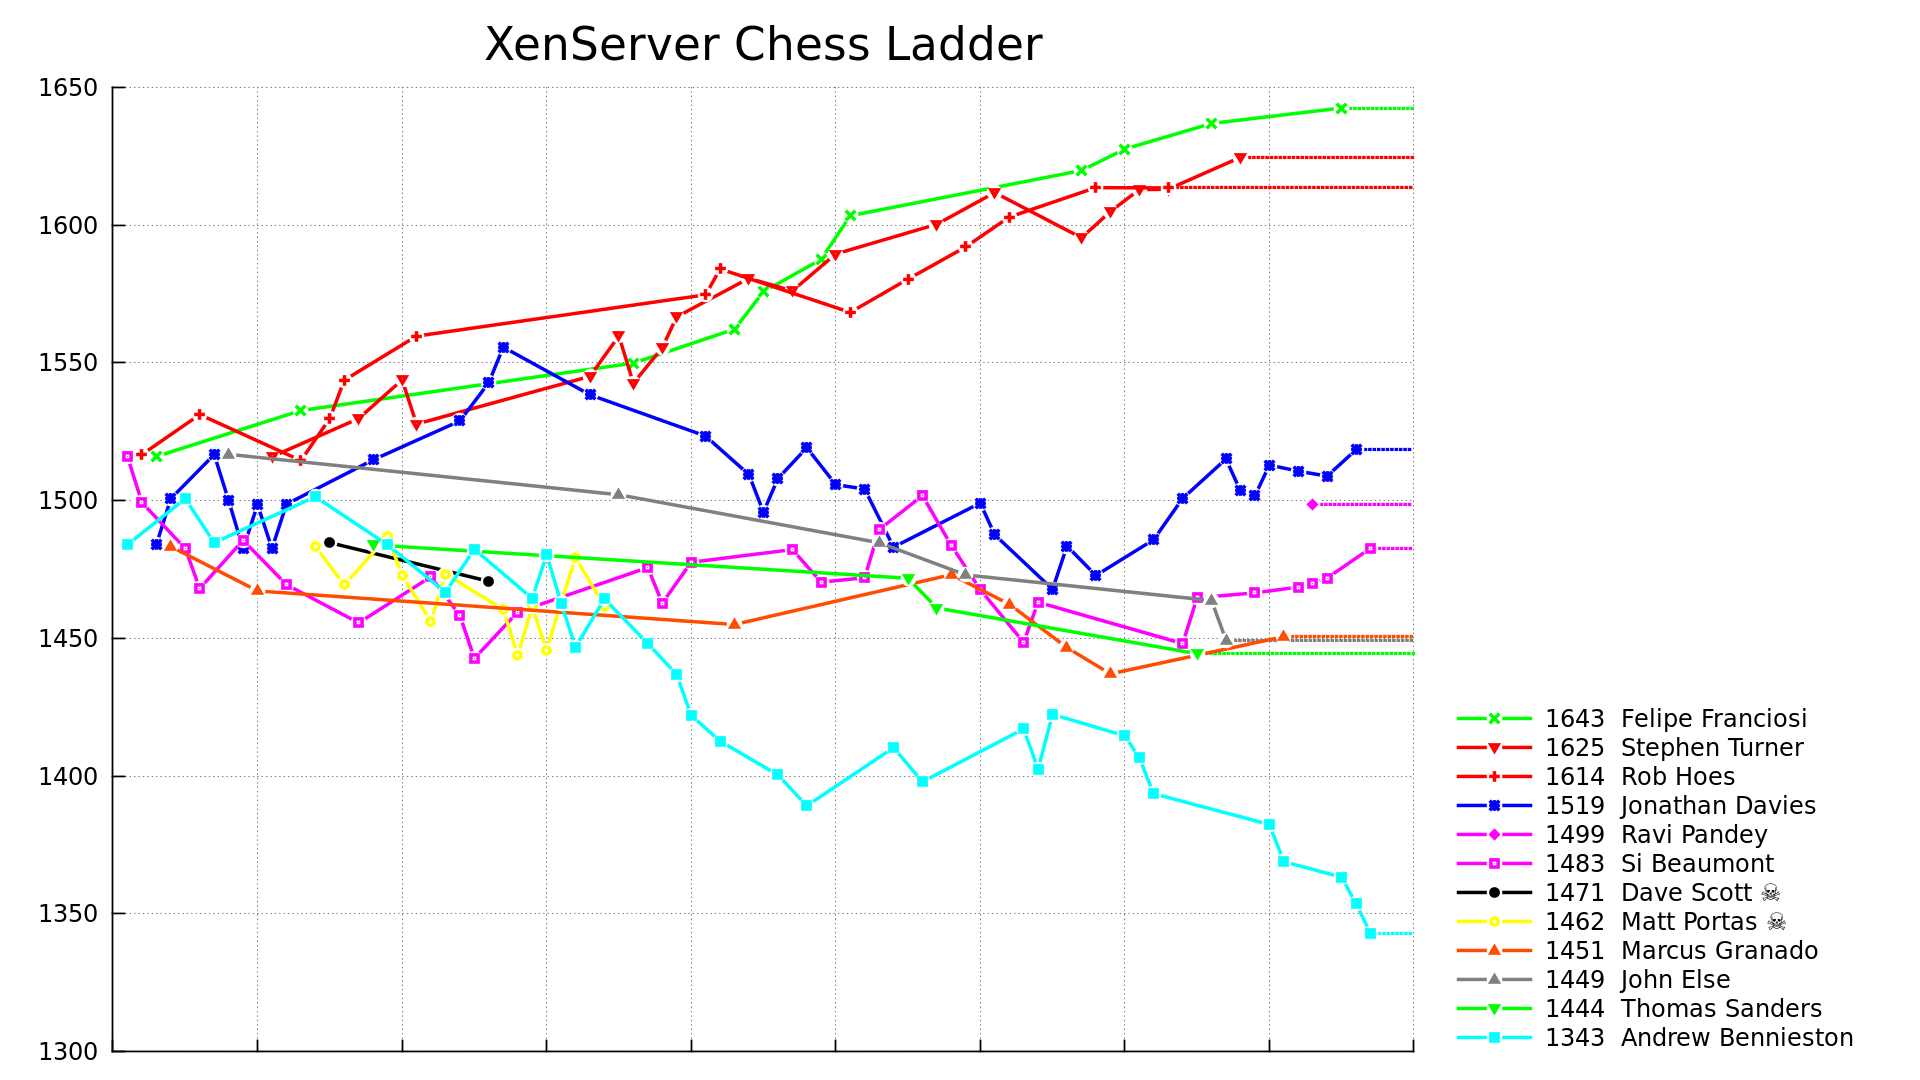
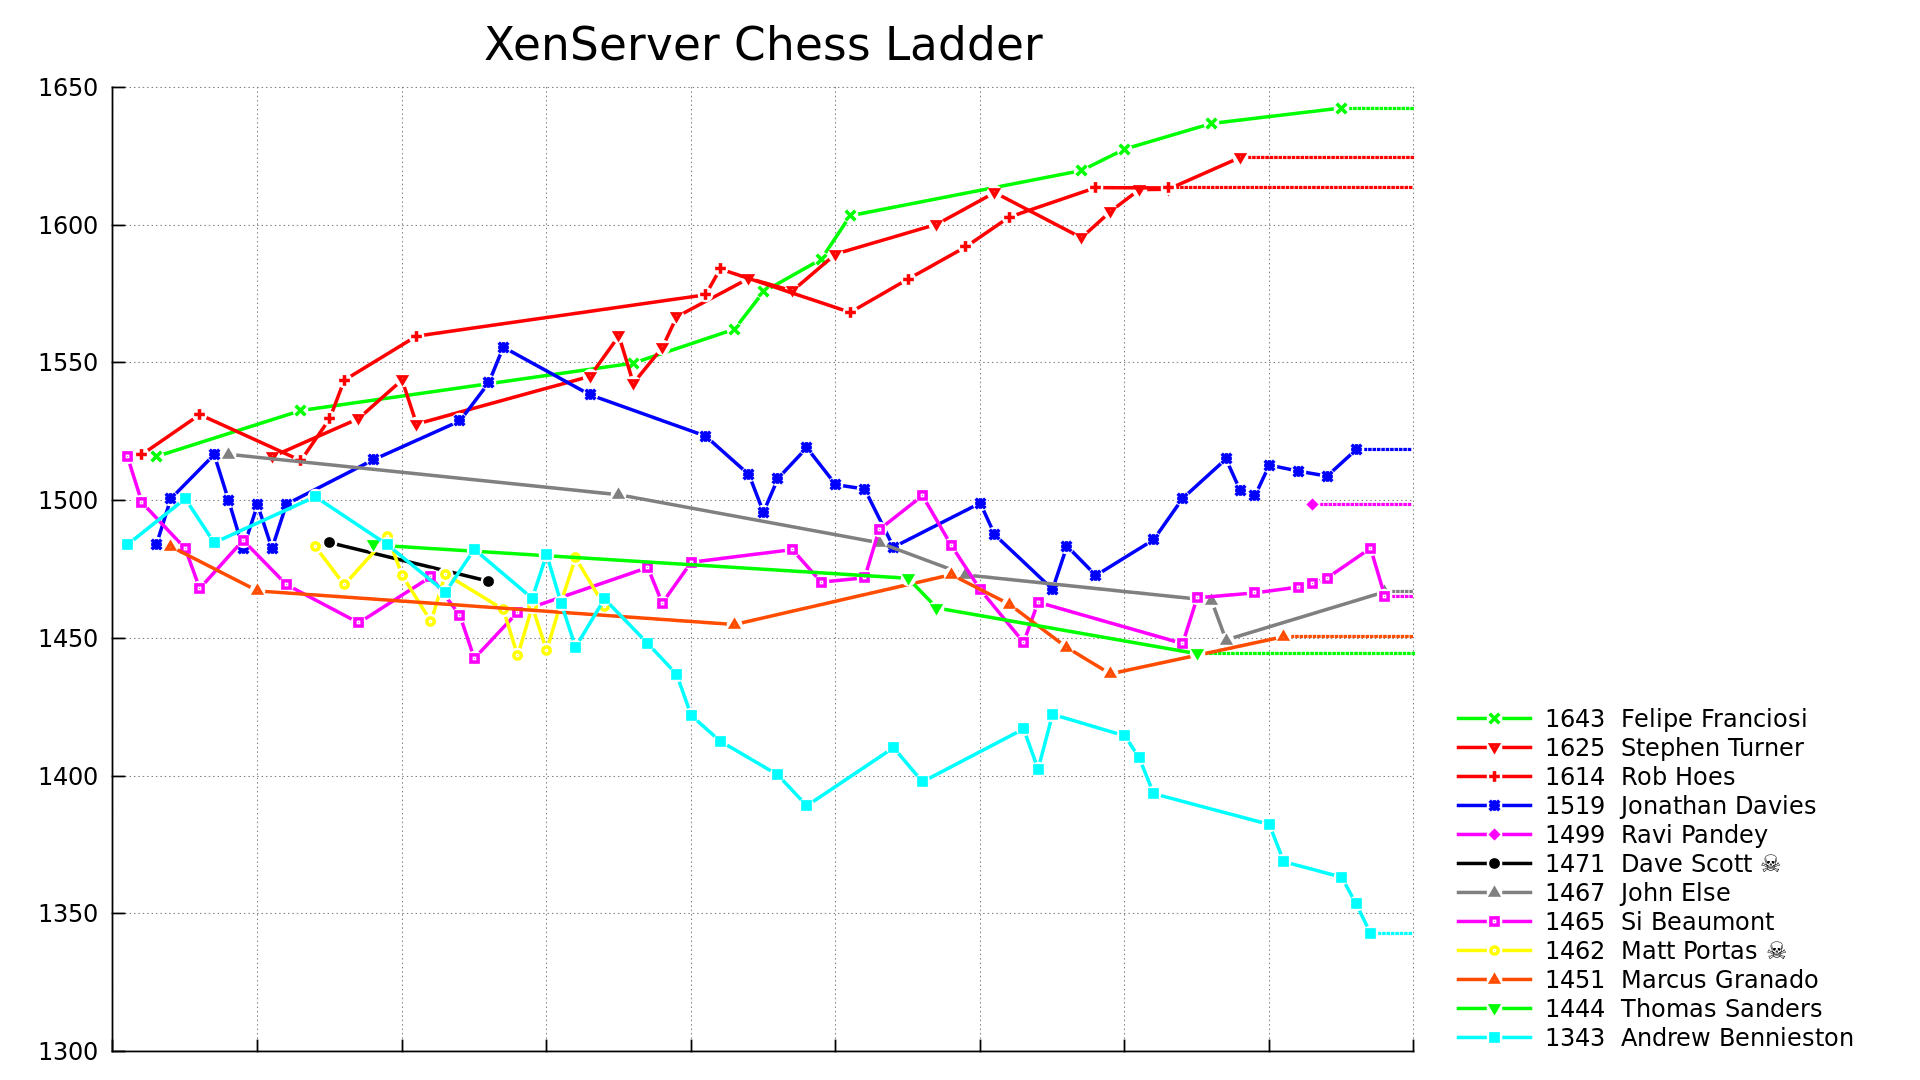
Travis build 173 pushed to gh-pages

Changed region(s): [[0.75, 0.7944, 0.9375, 0.9167], [0.6562, 0.55, 0.7188, 0.5806]]

diff --git a/index.md b/index.md
@@ -9,11 +9,11 @@ layout: default
      4.  Jonathan Davies                    1519  (19 / 35)
      5.  Bill Briscombe                     1500  (0 / 0)
      6.  Ravi Pandey                        1499  (0.5 / 1)
-     7.  Si Beaumont                        1483  (14 / 30)
-     8.  Dave Scott                      ☠  1471  (0 / 2)
-     9.  Matt Portas                     ☠  1462  (5 / 13)
-    10.  Marcus Granado                     1451  (2 / 8)
-    11.  John Else                          1449  (1 / 6)
+     7.  Dave Scott                      ☠  1471  (0 / 2)
+     8.  John Else                          1467  (2 / 7)
+     9.  Si Beaumont                        1465  (14 / 31)
+    10.  Matt Portas                     ☠  1462  (5 / 13)
+    11.  Marcus Granado                     1451  (2 / 8)
     12.  Thomas Sanders                     1444  (0 / 4)
     13.  Andrew Bennieston                  1343  (8 / 31)
 ### Suggested games (least played)
@@ -23,6 +23,7 @@ layout: default
         Felipe Franciosi - Si Beaumont
        Andrew Bennieston - Rob Hoes
 ### Games
+    2014-03-13:            John Else - Si Beaumont               1 - 0
     2014-03-12:          Si Beaumont - Andrew Bennieston         1 - 0
     2014-03-12:    Andrew Bennieston - Jonathan Davies           0 - 1
     2014-03-10:    Andrew Bennieston - Felipe Franciosi          0 - 1
